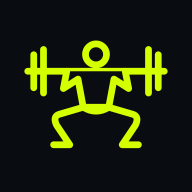
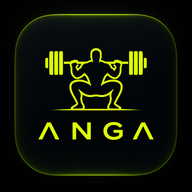
Add files via upload

diff --git a/app.js b/app.js
@@ -19,7 +19,7 @@ function nextPlan(){return scheduled(dateKey(new Date()))}
 function planLabel(n){return n===null?'Rest Day':n===5?'Full Body · Return':names[n]}
 function countDone(s){var a=0,b=0;(s.exercises||[]).forEach(function(e){(e.sets||[]).forEach(function(t){b++;if(t.done)a++})});return [a,b]}
 function btn(txt,act,secondary){return '<button class="btn'+(secondary?' secondary':'')+'" data-action="'+act+'">'+txt+'</button>'}
-function render(){document.getElementById('todayDate').textContent=new Date().toLocaleDateString('en-US',{month:'short',day:'numeric'})+' · v5.0.2';Array.prototype.forEach.call(document.querySelectorAll('nav button'),function(b){b.className=(b.getAttribute('data-page')==='home'?'central-home ':'')+(b.getAttribute('data-page')===page?'active':'')});document.body.classList.toggle('workout-timer-visible',page==='train'&&!!working);var el=document.getElementById('app');el.innerHTML=({home:home,calendar:calendar,train:train,progress:progress,settings:settings})[page]();if(page==='train'&&working)tick();}
+function render(){document.getElementById('todayDate').textContent=new Date().toLocaleDateString('en-US',{month:'short',day:'numeric'})+' · v5.0.3';Array.prototype.forEach.call(document.querySelectorAll('nav button'),function(b){b.className=(b.getAttribute('data-page')==='home'?'central-home ':'')+(b.getAttribute('data-page')===page?'active':'')});document.body.classList.toggle('workout-timer-visible',page==='train'&&!!working);var el=document.getElementById('app');el.innerHTML=({home:home,calendar:calendar,train:train,progress:progress,settings:settings})[page]();if(page==='train'&&working)tick();}
 function home(){var n=scheduled(dateKey(new Date())),unfinished=data.sessions.filter(function(s){return !s.complete}).slice(-1)[0],last=data.sessions.filter(function(s){return s.complete}).slice(-1)[0];return '<h1>Build strength. Keep going.</h1><p class="sub">One session at a time. No catching up or punishment workouts.</p>'+(data.phase==='intro'?'<div class="notice">Reintroduction phase: 3 light full-body sessions weekly. Start only when rested and medically ready. Avoid heavy lifting after an all-nighter or if drowsy from medication.</div>':'')+'<section class="card hero"><div class="eyebrow">Today’s scheduled workout</div><h1>'+planLabel(n)+'</h1><p class="sub">'+(n===null?'Recovery day · No workout scheduled':n===5?'Light loads · 3–4 reps in reserve':'Based on your calendar and training phase start date.')+'</p>'+(n===null?'':btn('Open workout','openNext'))+(unfinished?'<div style="margin-top:10px">'+btn('Resume previous workout','resumePrevious',true)+'</div>':'')+'</section><div class="stat-grid"><div class="stat"><small>Completed workouts</small><b>'+data.sessions.filter(function(s){return s.complete}).length+'</b></div><div class="stat"><small>Latest body weight</small><b>'+(data.weights.length?esc(data.weights[data.weights.length-1].kg)+' kg':'—')+'</b></div></div><div class="card" style="margin-top:13px"><h2>Weekly plan</h2><div class="session-list">'+['Upper A · strength','Lower A · squat strength','Upper B · hypertrophy','Lower B · leg hypertrophy','Optional · delts, arms & traps'].map(function(s,i){return '<button type="button" class="session-item plan-tap" data-preview="'+i+'" aria-label="Preview '+esc(s)+'"><strong>'+s+'</strong><span class="pill'+(i===4?' rest':'')+'">'+(i===4?'Optional':'Core')+' <span aria-hidden="true">›</span></span></button>'}).join('')+'</div></div>'+(last?'<p class="sub">Last completed: '+esc(last.title)+' · '+human(last.date)+'</p>':'')}
 function previewPlan(index){var list=plans[index];if(!list)return;var overlay=document.createElement('div');overlay.className='preview-overlay';overlay.id='planPreview';overlay.setAttribute('role','presentation');var items=list.map(function(ex,i){return '<div class="preview-ex"><span class="preview-num">'+(i+1)+'</span><div class="preview-name">'+esc(ex[0])+'</div><strong class="preview-reps">'+ex[1]+' × '+esc(ex[2])+'</strong></div>'}).join('');overlay.innerHTML='<section class="preview-dialog" role="dialog" aria-modal="true" aria-labelledby="previewTitle"><div class="preview-head"><div><div class="eyebrow">Workout overview</div><h2 id="previewTitle">'+esc(names[index])+'</h2></div><button type="button" class="preview-close" data-close-preview aria-label="Close workout preview">×</button></div><div class="preview-scroll">'+items+'</div><p class="preview-note">Plan only · Your logged weights and reps are not changed.</p><button type="button" class="btn preview-done" data-close-preview>Close preview</button></section>';document.body.appendChild(overlay);document.body.classList.add('preview-open');overlay.querySelector('.preview-close').focus()}
 function closePreview(){var el=document.getElementById('planPreview');if(el)el.remove();document.body.classList.remove('preview-open')}
@@ -41,7 +41,7 @@ function chooseExercise(){var list=exerciseLibrary();var q=prompt('Exercise name
 function handleMod(action,index){if(!working)return;var ex=working.exercises[index],persist=false;if(action==='addset'||action==='dropset'){if(!ex)return;var last=ex.sets[ex.sets.length-1]||{};ex.sets.push({kg:last.kg||'',reps:'',done:false,extra:true,type:action==='dropset'?'drop':'normal'});if(action==='addset'&&working.plan!==5)persist=editPlanChoice()}else if(action==='removeset'){if(!ex||ex.sets.length<=1)return;ex.sets.pop();if(working.plan!==5)persist=editPlanChoice()}else if(action==='remove'){if(!ex||!confirm('Remove '+ex.name+' from this workout?'))return;working.exercises.splice(index,1);if(working.plan!==5)persist=editPlanChoice()}else if(action==='replace'||action==='add'){var name=chooseExercise();if(!name)return;var prev=lastSession(name),newEx={name:name,range:ex&&action==='replace'?ex.range:'8–12',rest:ex&&action==='replace'?ex.rest:90,unit:data.exerciseUnits[name]||'kg',sets:[]};for(var j=0;j<(ex&&action==='replace'?ex.sets.length:2);j++)newEx.sets.push({kg:prev&&prev.sets[j]?prev.sets[j].kg:'',reps:'',done:false});if(action==='replace')working.exercises.splice(index,1,newEx);else working.exercises.push(newEx);if(working.plan!==5)persist=editPlanChoice()}if(persist)persistPlan();save();render()}
 document.addEventListener('click',function(ev){if(ev.target.closest('[data-close-preview]')||ev.target.id==='planPreview'){closePreview();return}var preview=ev.target.closest('[data-preview]');if(preview){previewPlan(Number(preview.getAttribute('data-preview')));return}var mod=ev.target.closest('[data-mod]');if(mod){handleMod(mod.getAttribute('data-mod'),Number(mod.getAttribute('data-exi')));return}var nav=ev.target.closest('[data-page]');if(nav){go(nav.getAttribute('data-page'));return}var day=ev.target.closest('[data-date]');if(day){selected=day.getAttribute('data-date');render();return}var edit=ev.target.closest('[data-edit]');if(edit){var id=edit.getAttribute('data-edit');working=data.sessions.filter(function(s){return s.id===id})[0];go('train');return}var rest=ev.target.closest('[data-rest]');if(rest){setTimer(Number(rest.getAttribute('data-rest')));return}var act=ev.target.closest('[data-action]');if(!act)return;var a=act.getAttribute('data-action');if(a==='openNext'){var plan=scheduled(dateKey(new Date())),date=dateKey(new Date());if(plan===null){alert('Today is a rest day. Use Calendar to change the day plan if needed.');return}var existing=data.sessions.filter(function(s){return !s.complete&&s.date===date&&s.plan===plan}).slice(-1)[0];if(existing){working=existing;go('train')}else start(plan,date)}else if(a==='resumePrevious'){var unfinished=data.sessions.filter(function(s){return !s.complete}).slice(-1)[0];if(unfinished){working=unfinished;go('train')}}else if(a==='prevMonth'||a==='nextMonth'){var dt=new Date(year,month+(a==='prevMonth'?-1:1),1);year=dt.getFullYear();month=dt.getMonth();render()}else if(a==='saveDay'){var v=document.getElementById('dayPlan').value;data.overrides[selected]=v==='rest'?null:Number(v);save();render()}else if(a==='startSelected'){scheduled(selected)===null?alert('Rest day selected. Change the day plan before starting a workout.'):start(scheduled(selected),selected)}else if(a==='addExercise'){handleMod('add',0)}else if(a==='timer90')setTimer(90);else if(a==='stopTimer'){clearInterval(timerId);timerEnd=0;tick()}else if(a==='editDuration'){editDuration();}else if(a==='finish'){if(!working)return;var c=countDone(working);if(!c[0]&&!working.complete){alert('Mark at least one completed set first.');return}if(!working.complete)working.finishedAt=Date.now();working.complete=true;save();render()}else if(a==='closeLog'){working=null;go('home')}else if(a==='addWeight'){var k=document.getElementById('weightDate').value,v=Number(document.getElementById('weightValue').value);if(!k||!isFinite(v)||v<20||v>350){alert('Enter a valid date and body weight.');return}data.weights=data.weights.filter(function(w){return w.date!==k});data.weights.push({date:k,kg:v});data.weights.sort(function(x,y){return x.date.localeCompare(y.date)});save();render()}else if(a==='savePhase'){var startDate=document.getElementById('phaseStart').value,chosenPhase=document.getElementById('phase').value;if(!/^\d{4}-\d{2}-\d{2}$/.test(startDate)||dateKey(parseDate(startDate))!==startDate){alert('Choose a valid program start date.');return}if(!confirm('Start '+(chosenPhase==='intro'?'Return phase':'Main program')+' on '+human(startDate)+'? The calendar will schedule Day 1 from this date.'))return;data.phase=chosenPhase;data.start=startDate;data.phaseHistory=data.phaseHistory.filter(function(h){return h.start<startDate});data.phaseHistory.push({phase:chosenPhase,start:startDate});save();render()}else if(a==='export'){download(JSON.stringify(data,null,2),'iron-log-backup-'+today+'.json')}else if(a==='reset'){if(confirm('Delete ALL workout and weight records from this phone? Export a backup first.')){localStorage.removeItem(KEY);location.reload()}}});
 document.addEventListener('change',function(ev){var t=ev.target;if(t.hasAttribute('data-exunit')){if(!working)return;var ei=Number(t.getAttribute('data-exunit')),ex=working.exercises[ei],u=t.value;if(!ex)return;if(ex.unit!==u&&ex.sets.some(function(x){return x.kg!==''})){alert('Existing loads are recorded in '+(ex.unit||'kg')+'. Change the unit before entering loads in a new workout to preserve your history.');render();return}ex.unit=u;data.exerciseUnits[ex.name]=u;save();render();return}if(t.id==='importFile'){var file=t.files&&t.files[0];if(!file)return;var reader=new FileReader();reader.onload=function(){try{var obj=JSON.parse(reader.result);if(!obj||!Array.isArray(obj.sessions)||!Array.isArray(obj.weights)||typeof obj.phase!=='string')throw Error('Invalid file');if(!confirm('Replace all current ANGA records with this backup?'))return;data=obj;if(!data.overrides)data.overrides={};if(!Array.isArray(data.phaseHistory))data.phaseHistory=[{phase:data.phase,start:data.start||today}];save();working=null;go('home');alert('Backup restored.')}catch(e){alert('Could not import this backup.')}};reader.readAsText(file);return}if(t.hasAttribute('data-field')){if(!working)return;var e=Number(t.getAttribute('data-ex')),s=Number(t.getAttribute('data-set')),f=t.getAttribute('data-field');if(!working.exercises[e]||!working.exercises[e].sets[s])return;var val=f==='done'?t.checked:t.value;if(f==='kg'&&val!==''&&(!isFinite(Number(val))||Number(val)<0||Number(val)>1000))return;if(f==='reps'&&val!==''&&(!Number.isInteger(Number(val))||Number(val)<0||Number(val)>100))return;working.exercises[e].sets[s][f]=val;save();if(f==='done')render()}});
-document.addEventListener('keydown',function(ev){if(ev.key==='Escape')closePreview()});render();if('serviceWorker'in navigator&&location.protocol==='https:')navigator.serviceWorker.register('./sw.js?v=5.0.2').catch(function(){});
+document.addEventListener('keydown',function(ev){if(ev.key==='Escape')closePreview()});render();if('serviceWorker'in navigator&&location.protocol==='https:')navigator.serviceWorker.register('./sw.js?v=5.0.3').catch(function(){});
 
 function durationText(ms){var n=Math.max(0,Math.floor(ms/1000));return pad(Math.floor(n/3600))+':'+pad(Math.floor(n/60)%60)+':'+pad(n%60)}
 function durationCard(s){var counts={normal:0,extra:0,drop:0};s.exercises.forEach(function(e){e.sets.forEach(function(t){if(t.done){if(t.type==='drop')counts.drop++;else{counts.normal++;if(t.extra)counts.extra++;}}})});return '<div class="card"><div class="row"><div><small>Workout duration</small><h2 id="elapsedWorkout">'+(s.startedAt?durationText((s.finishedAt||Date.now())-s.startedAt):'Not recorded')+'</h2></div>'+btn('Edit time','editDuration',true)+'</div><p class="sub">'+(s.startedAt?new Date(s.startedAt).toLocaleString():'Unknown start')+(s.finishedAt?' – '+new Date(s.finishedAt).toLocaleString():'')+'</p>'+(s.complete?'<p>'+s.exercises.length+' exercises · '+counts.normal+' working sets · '+counts.extra+' extra · '+counts.drop+' drops</p>':'')+'</div>'}

diff --git a/index.html b/index.html
@@ -1,4 +1,4 @@
-<!doctype html><html lang="en"><head><meta charset="utf-8"><meta name="viewport" content="width=device-width,initial-scale=1,viewport-fit=cover"><meta name="theme-color" content="#090d11"><meta name="apple-mobile-web-app-capable" content="yes"><meta name="apple-mobile-web-app-status-bar-style" content="black-translucent"><meta name="apple-mobile-web-app-title" content="ANGA"><meta name="description" content="Offline workout and Sri Lankan nutrition tracker"><link rel="manifest" href="manifest.webmanifest?v=5.0.2"><link rel="apple-touch-icon" href="icons/icon-180.png?v=5.0.2"><link rel="stylesheet" href="style.css?v=5.0.2"><link rel="stylesheet" href="nutrition.css?v=5.0.2"><link rel="icon" type="image/png" href="icons/icon-192.png?v=5.0.2"><title>ANGA</title><style id="fixed-rest-timer-style">
+<!doctype html><html lang="en"><head><meta charset="utf-8"><meta name="viewport" content="width=device-width,initial-scale=1,viewport-fit=cover"><meta name="theme-color" content="#090d11"><meta name="apple-mobile-web-app-capable" content="yes"><meta name="apple-mobile-web-app-status-bar-style" content="black-translucent"><meta name="apple-mobile-web-app-title" content="ANGA"><meta name="description" content="Offline workout and Sri Lankan nutrition tracker"><link rel="manifest" href="manifest.webmanifest?v=5.0.3"><link rel="apple-touch-icon" href="icons/anga-lifter-v503-180.png?v=5.0.3"><link rel="stylesheet" href="style.css?v=5.0.3"><link rel="stylesheet" href="nutrition.css?v=5.0.3"><link rel="icon" type="image/png" href="icons/anga-lifter-v503-192.png?v=5.0.3"><title>ANGA</title><style id="fixed-rest-timer-style">
 /* Visible throughout workout scrolling, including iOS Safari / home-screen PWA. */
 body.workout-timer-visible #app {padding-bottom:calc(164px + env(safe-area-inset-bottom));}
 body.workout-timer-visible .fixed-rest-timer {
@@ -11,4 +11,4 @@ body.workout-timer-visible .fixed-rest-timer {
 body.workout-timer-visible .fixed-rest-timer .row {gap:8px; flex-wrap:wrap;}
 
 .il-tools{margin:10px 0;border-top:1px solid #323a44;padding-top:10px}.il-tools summary,.il-custom summary{cursor:pointer;color:#d4ff00;font-weight:600;padding:7px 0}.il-tools select{width:100%;margin:8px 0 12px}.il-tools .buttons{margin-top:8px;flex-wrap:wrap}.il-food-row{display:flex;align-items:center;gap:6px;border-bottom:1px solid #303740}.il-food-row .nut-list-btn{flex:1;min-width:0;border-bottom:0}.il-star{flex:none;border:0;background:transparent;color:#d4ff00;font-size:24px;padding:10px;cursor:pointer}.il-custom{margin-top:14px}
-</style></head><body><header><div class="brand"><div><b aria-label="ANGA" class="anga-wordmark"><svg viewBox="0 0 112 24" width="100" height="22" aria-hidden="true" fill="none" stroke="currentColor" stroke-width="3.4" stroke-linejoin="round"><path d="M2 22L12 2 22 22 M32 22V2L51 22V2 M79 5Q74 2 68 2Q58 2 58 12Q58 22 68 22H79V12H70 M88 22L99 2 110 22"/></svg></b><small>Training & nutrition</small></div></div><span id="todayDate"></span></header><div class="mode-wrap"><div class="mode-switch" role="group" aria-label="App mode"><button type="button" id="modeWorkout" class="mode-active">Workout</button><button type="button" id="modeNutrition">Nutrition</button></div></div><main id="app"></main><main id="nutritionApp" hidden></main><nav aria-label="Main navigation"><svg class="nav-curve" viewBox="0 0 88 30" aria-hidden="true"><path d="M0 29 C13 29 15 0 44 0 S75 29 88 29 V30 H0Z" fill="#1b222b"/><path d="M0 29 C13 29 15 0 44 0 S75 29 88 29" fill="none" stroke="#39424c" stroke-width="1"/></svg><button data-page="calendar"><span>▦</span>Calendar</button><button data-page="train"><span>▤</span>Train</button><button data-page="home" class="central-home active"><span>⌂</span>Home</button><button data-page="progress"><span>↗</span>Progress</button><button data-page="settings"><span>⚙</span>Settings</button></nav><script src="app.js?v=5.0.2" defer></script><script src="nutrition.js?v=5.0.2" defer></script></body></html>
+</style></head><body><header><div class="brand"><div><b aria-label="ANGA" class="anga-wordmark"><svg viewBox="0 0 112 24" width="100" height="22" aria-hidden="true" fill="none" stroke="currentColor" stroke-width="3.4" stroke-linejoin="round"><path d="M2 22L12 2 22 22 M32 22V2L51 22V2 M79 5Q74 2 68 2Q58 2 58 12Q58 22 68 22H79V12H70 M88 22L99 2 110 22"/></svg></b><small>Training & nutrition</small></div></div><span id="todayDate"></span></header><div class="mode-wrap"><div class="mode-switch" role="group" aria-label="App mode"><button type="button" id="modeWorkout" class="mode-active">Workout</button><button type="button" id="modeNutrition">Nutrition</button></div></div><main id="app"></main><main id="nutritionApp" hidden></main><nav aria-label="Main navigation"><svg class="nav-curve" viewBox="0 0 88 30" aria-hidden="true"><path d="M0 29 C13 29 15 0 44 0 S75 29 88 29 V30 H0Z" fill="#1b222b"/><path d="M0 29 C13 29 15 0 44 0 S75 29 88 29" fill="none" stroke="#39424c" stroke-width="1"/></svg><button data-page="calendar"><span>▦</span>Calendar</button><button data-page="train"><span>▤</span>Train</button><button data-page="home" class="central-home active"><span>⌂</span>Home</button><button data-page="progress"><span>↗</span>Progress</button><button data-page="settings"><span>⚙</span>Settings</button></nav><script src="app.js?v=5.0.3" defer></script><script src="nutrition.js?v=5.0.3" defer></script></body></html>

diff --git a/sw.js b/sw.js
@@ -1,1 +1,1 @@
-const CACHE='iron-log-anga-v5.0.2';const FILES=['./','./index.html','./style.css','./app.js','./nutrition.css','./nutrition.js','./manifest.webmanifest','./icons/icon-180.png','./icons/icon-192.png','./icons/icon-512.png','./style.css?v=5.0.2','./nutrition.css?v=5.0.2','./app.js?v=5.0.2','./nutrition.js?v=5.0.2','./manifest.webmanifest?v=5.0.2','./icons/icon-180.png?v=5.0.2'];self.addEventListener('install',e=>{e.waitUntil(caches.open(CACHE).then(c=>c.addAll(FILES)).then(()=>self.skipWaiting()))});self.addEventListener('activate',e=>{e.waitUntil(caches.keys().then(keys=>Promise.all(keys.filter(k=>k.indexOf('iron-log-')===0&&k!==CACHE).map(k=>caches.delete(k)))).then(()=>self.clients.claim()))});self.addEventListener('fetch',e=>{if(e.request.method!=='GET'||new URL(e.request.url).origin!==self.location.origin)return;e.respondWith(fetch(e.request).then(r=>{if(r.ok){const copy=r.clone();caches.open(CACHE).then(c=>c.put(e.request,copy)).catch(()=>{})}return r}).catch(()=>caches.match(e.request).then(r=>r||caches.match('./index.html'))))});
+const CACHE='iron-log-anga-v5.0.3';const FILES=['./','./index.html','./style.css','./app.js','./nutrition.css','./nutrition.js','./manifest.webmanifest','./icons/anga-lifter-v503-180.png','./icons/anga-lifter-v503-192.png','./icons/anga-lifter-v503-512.png','./style.css?v=5.0.3','./nutrition.css?v=5.0.3','./app.js?v=5.0.3','./nutrition.js?v=5.0.3','./manifest.webmanifest?v=5.0.3','./icons/anga-lifter-v503-180.png?v=5.0.3'];self.addEventListener('install',e=>{e.waitUntil(caches.open(CACHE).then(c=>c.addAll(FILES)).then(()=>self.skipWaiting()))});self.addEventListener('activate',e=>{e.waitUntil(caches.keys().then(keys=>Promise.all(keys.filter(k=>k.indexOf('iron-log-')===0&&k!==CACHE).map(k=>caches.delete(k)))).then(()=>self.clients.claim()))});self.addEventListener('fetch',e=>{if(e.request.method!=='GET'||new URL(e.request.url).origin!==self.location.origin)return;e.respondWith(fetch(e.request).then(r=>{if(r.ok){const copy=r.clone();caches.open(CACHE).then(c=>c.put(e.request,copy)).catch(()=>{})}return r}).catch(()=>caches.match(e.request).then(r=>r||caches.match('./index.html'))))});
